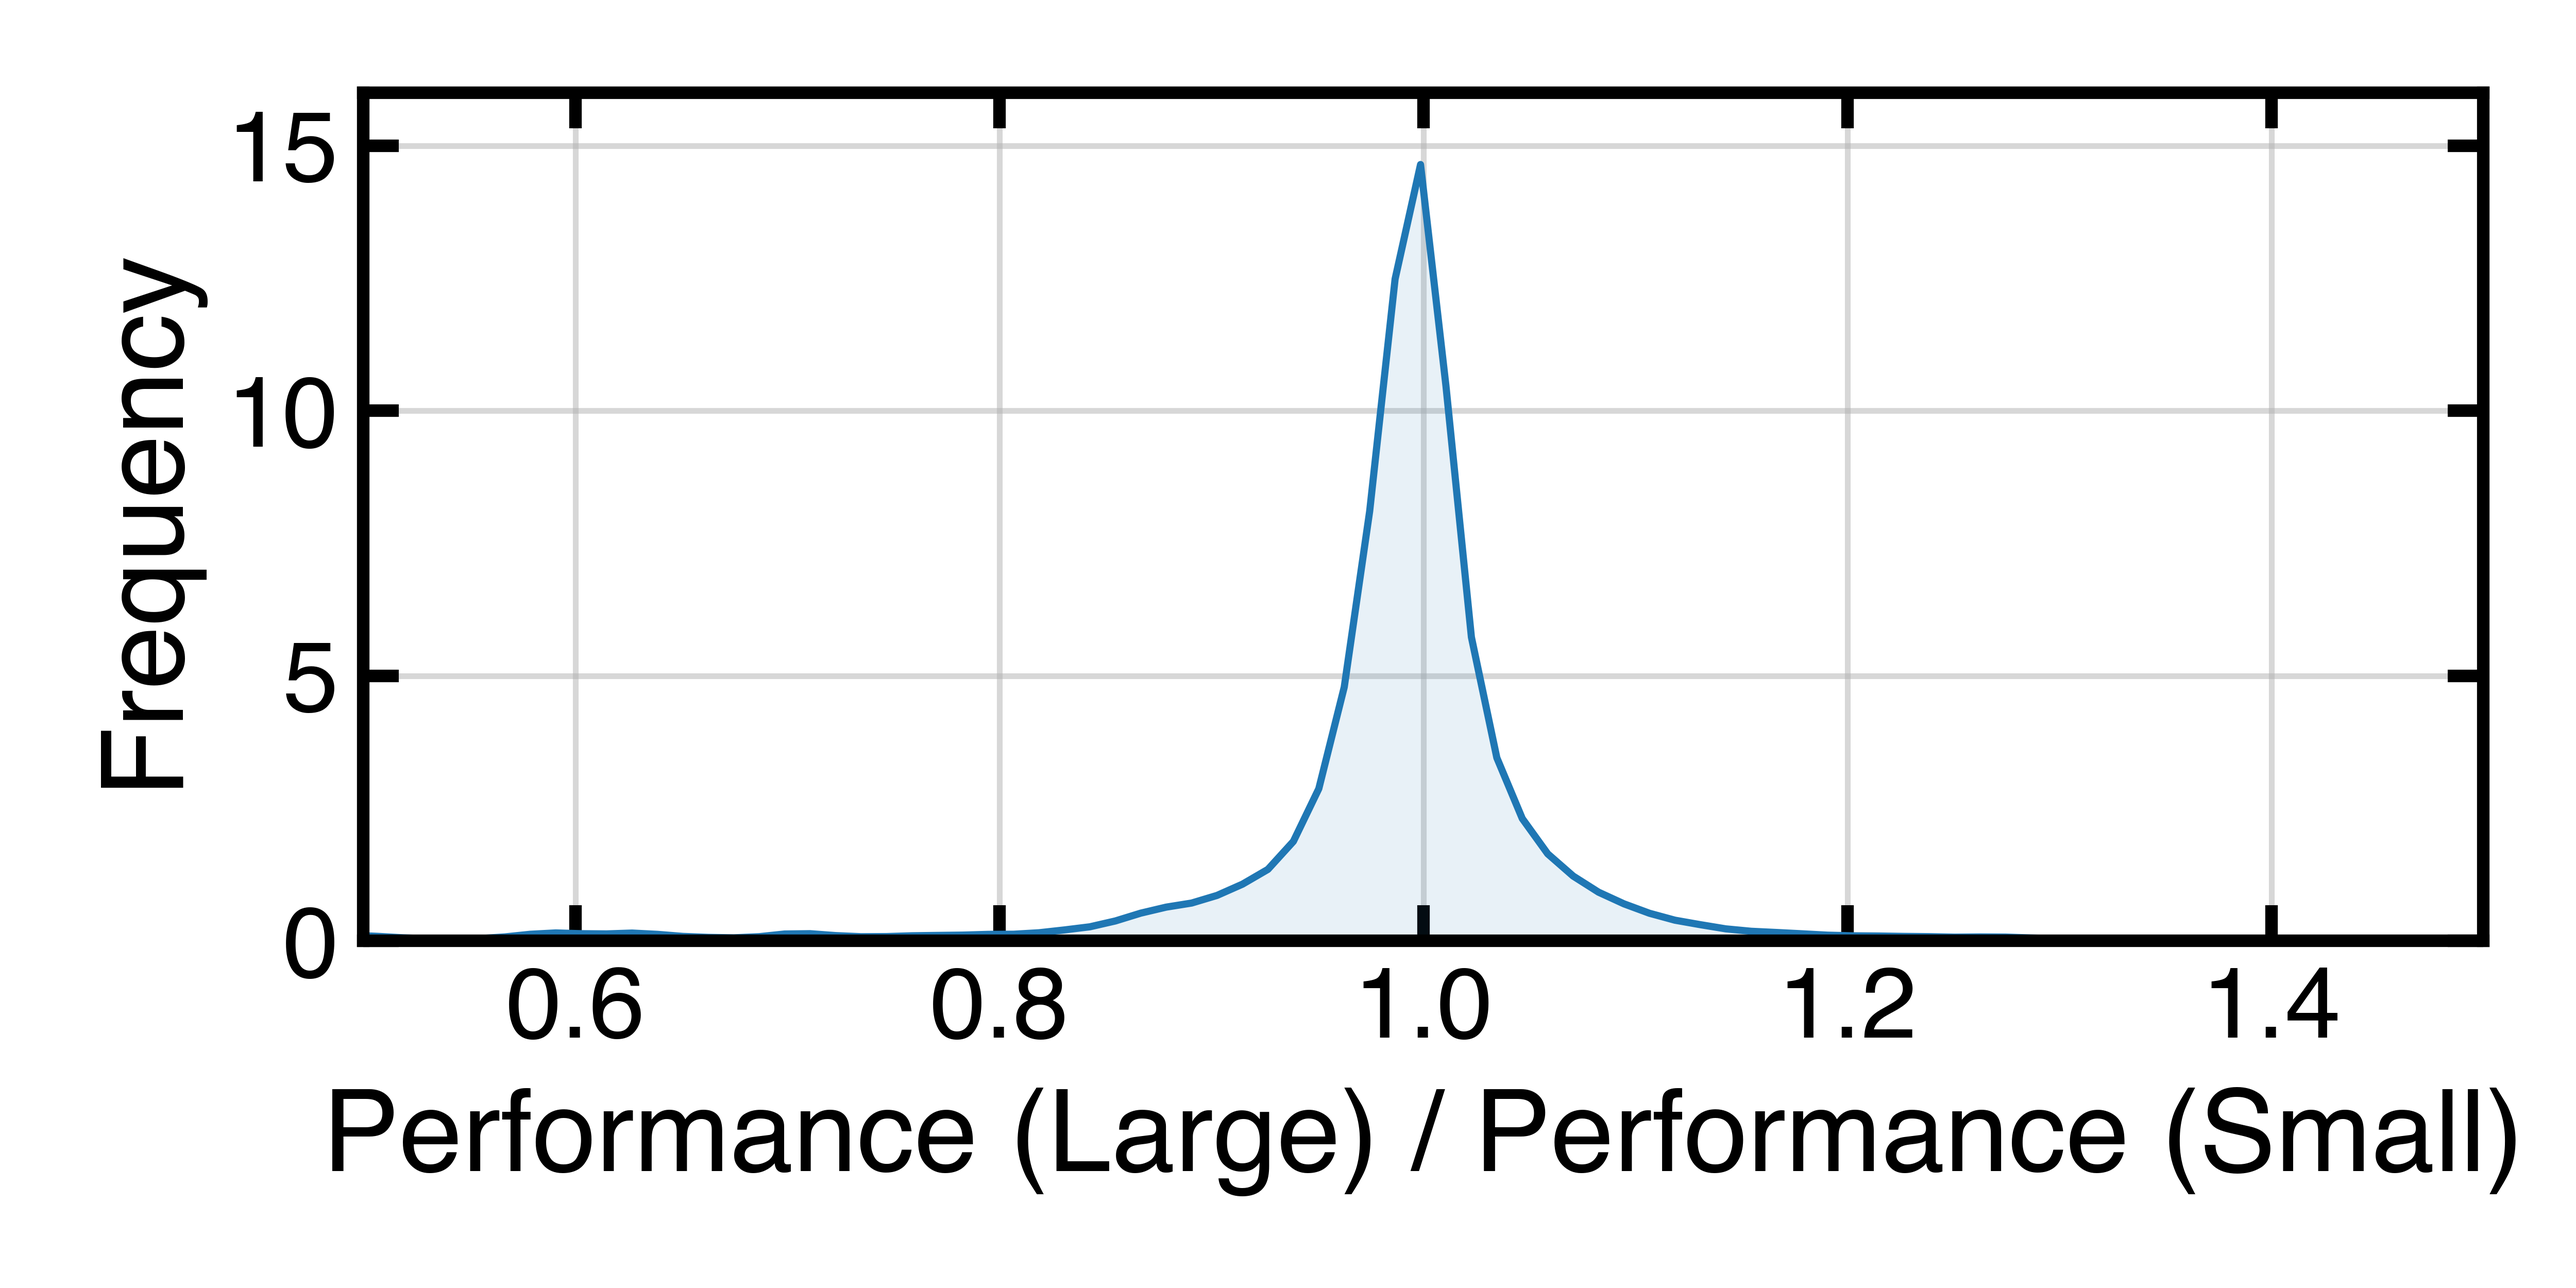
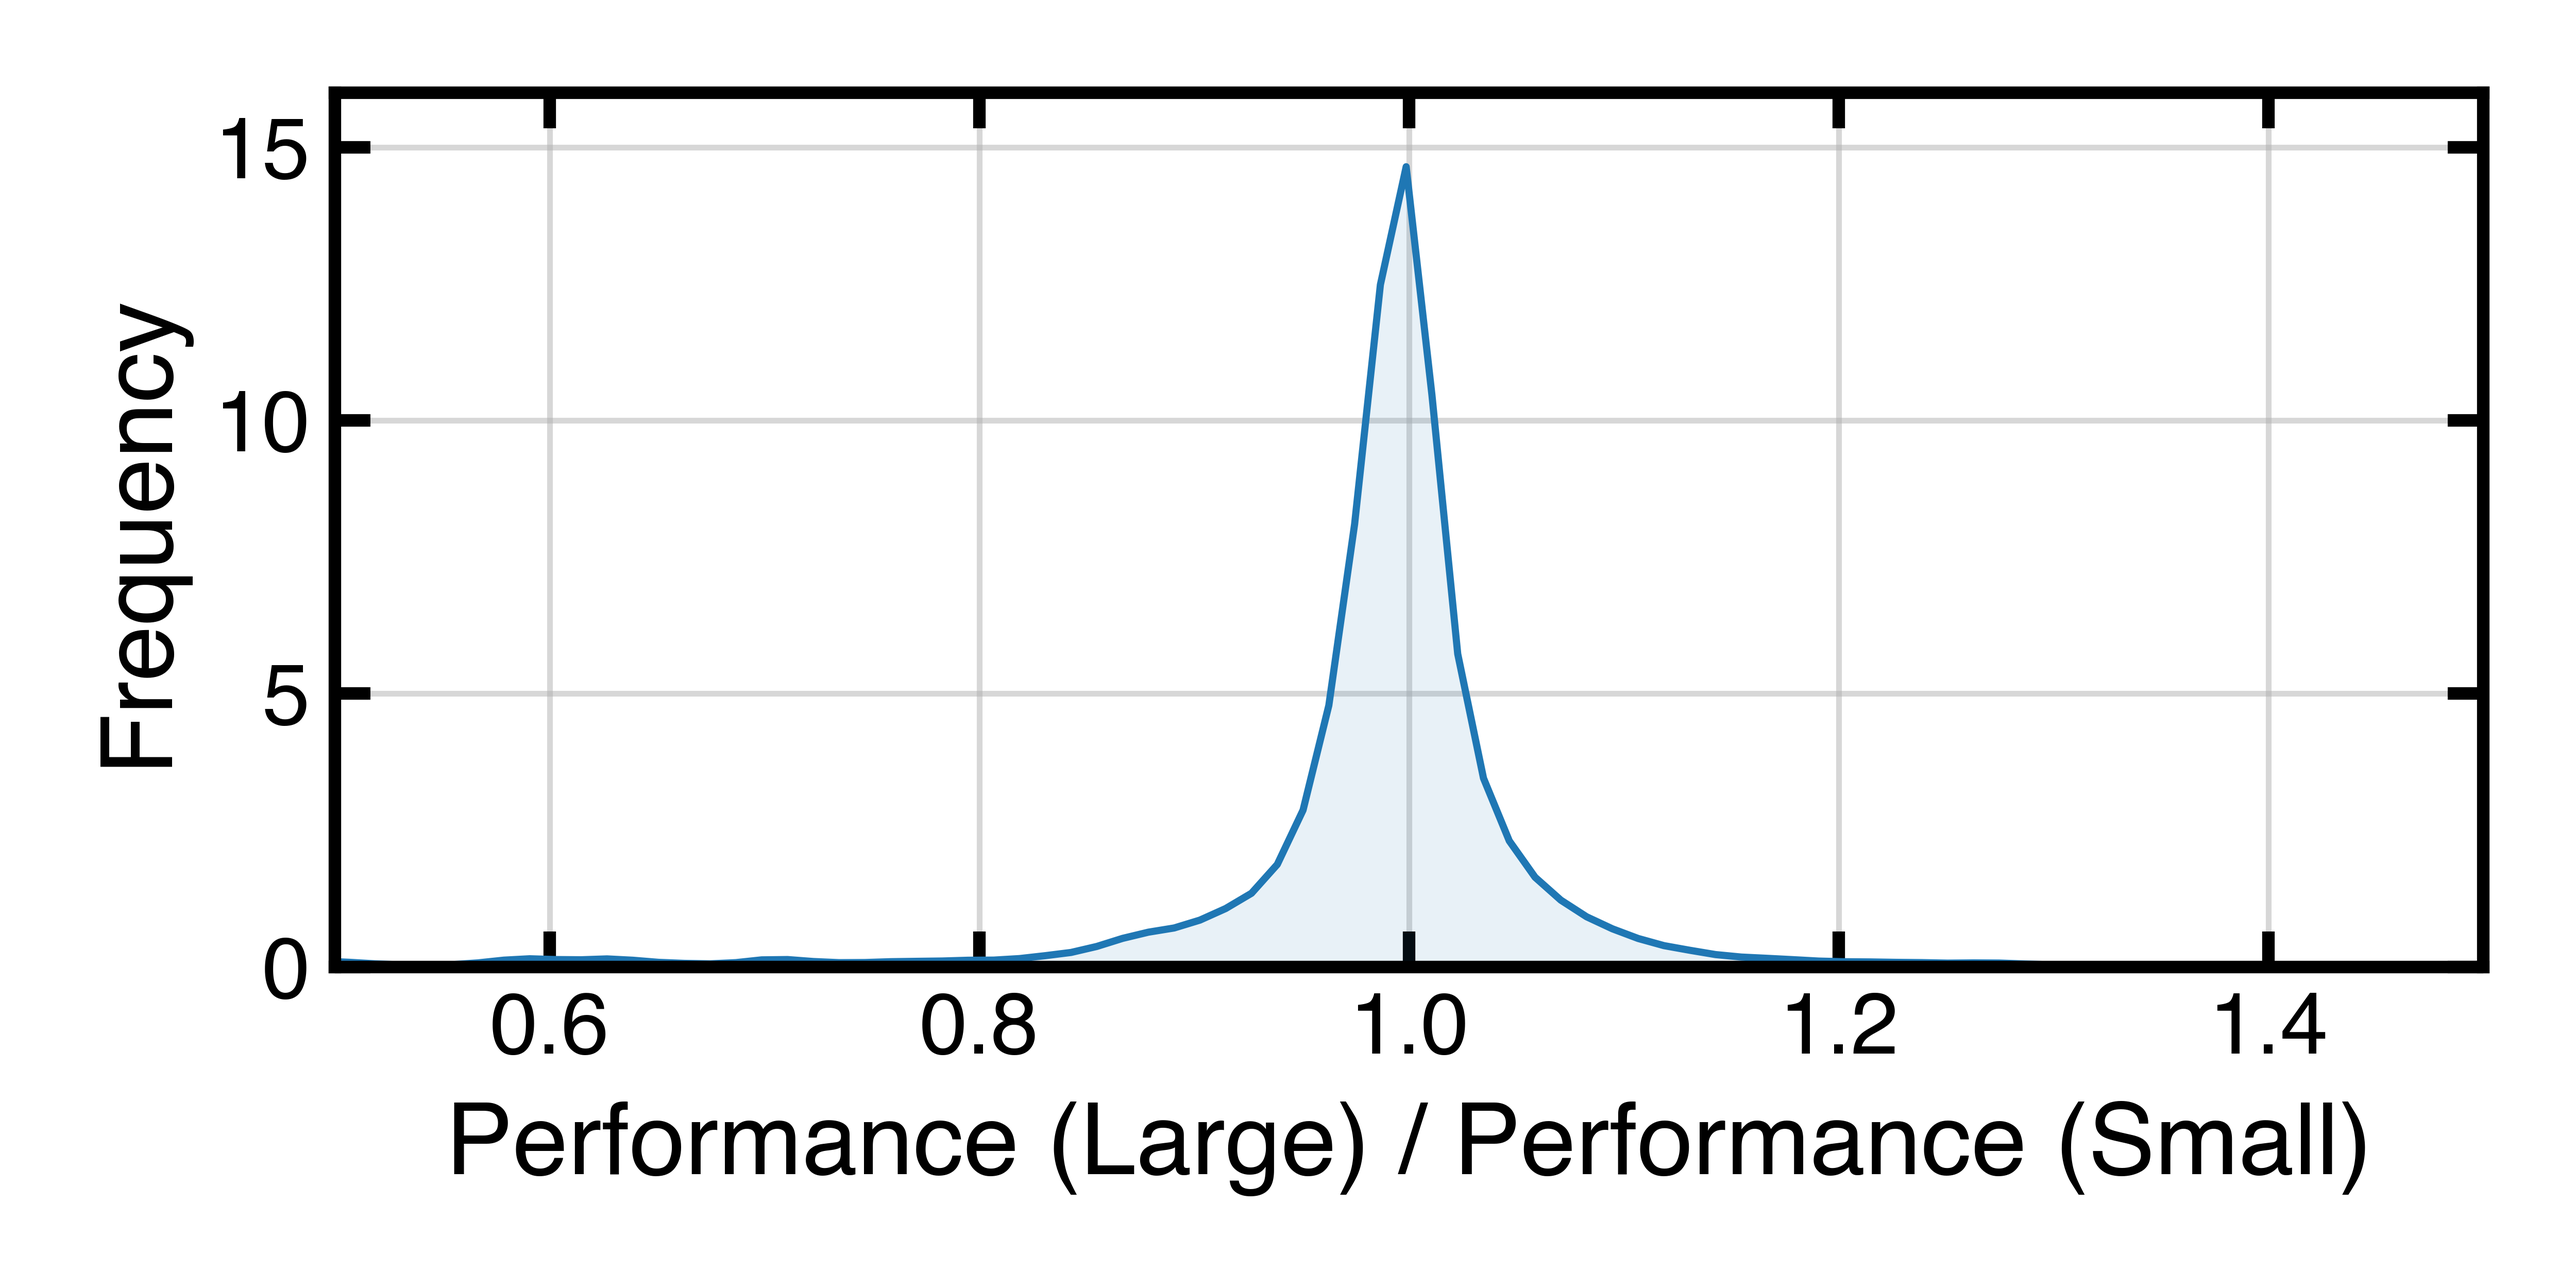
Moving SI (Section S6) to Section 4.8.

Changed region(s): [[0.0312, 0.0624, 0.9984, 0.936], [0.1872, 0.0936, 0.2496, 0.1248], [0.8736, 0.0936, 0.9048, 0.1248]]

diff --git a/fig10.py b/fig10.py
@@ -50,11 +50,11 @@ if __name__ == '__main__':
 
     plt.rcParams['font.family'] = 'Helvetica' 
     plt.rcParams['font.size'] = 12
-    plt.rcParams['axes.labelsize'] = 16
+    plt.rcParams['axes.labelsize'] = 14
     plt.rcParams['axes.labelweight'] = 'bold'
     plt.rcParams['axes.linewidth'] = 1.75
-    plt.rcParams['xtick.labelsize'] = 14
-    plt.rcParams['ytick.labelsize'] = 14
+    plt.rcParams['xtick.labelsize'] = 12
+    plt.rcParams['ytick.labelsize'] = 12
     plt.rcParams['legend.fontsize'] = 10
     plt.rcParams['figure.titlesize'] = 12
     fig, ax = plt.subplots(1,1,figsize=(5,2.5))

diff --git a/plotter.py b/plotter.py
@@ -182,7 +182,7 @@ if __name__ == '__main__':
             plt.bar(x=rounds, height=data, color=colors[index], edgecolor='black', linewidth=1.5, zorder=10, label=labels[index])
         plt.xlabel('Rounds', fontsize=17)
         plt.xticks(np.arange(1, 11, 1.0))
-        plt.ylabel('Fraction at which AL out-performs SF', fontsize=17)
+        plt.ylabel('Fraction at which AL outperforms SF', fontsize=17)
         plt.ylim(ymax=1.0)
         plt.grid(alpha=0.5, axis='y', zorder=2)
         plt.tick_params(axis='y', left=False, right=False)

diff --git a/fig5.py b/fig5.py
@@ -16,6 +16,7 @@ if __name__ == '__main__':
         'round': 10,           # Rounds vary from 0-10.
         'metric': 1,           # 0 - Balanced Accuracy, 1 - Macro F1, 2 - Matt. Corr. Coeff.
     }
+    config['tasks'] = ['electro']
 
     # Read in algorithm and baseline results.
     results_dict = pickle.load(open('results.pickle', 'rb'))
